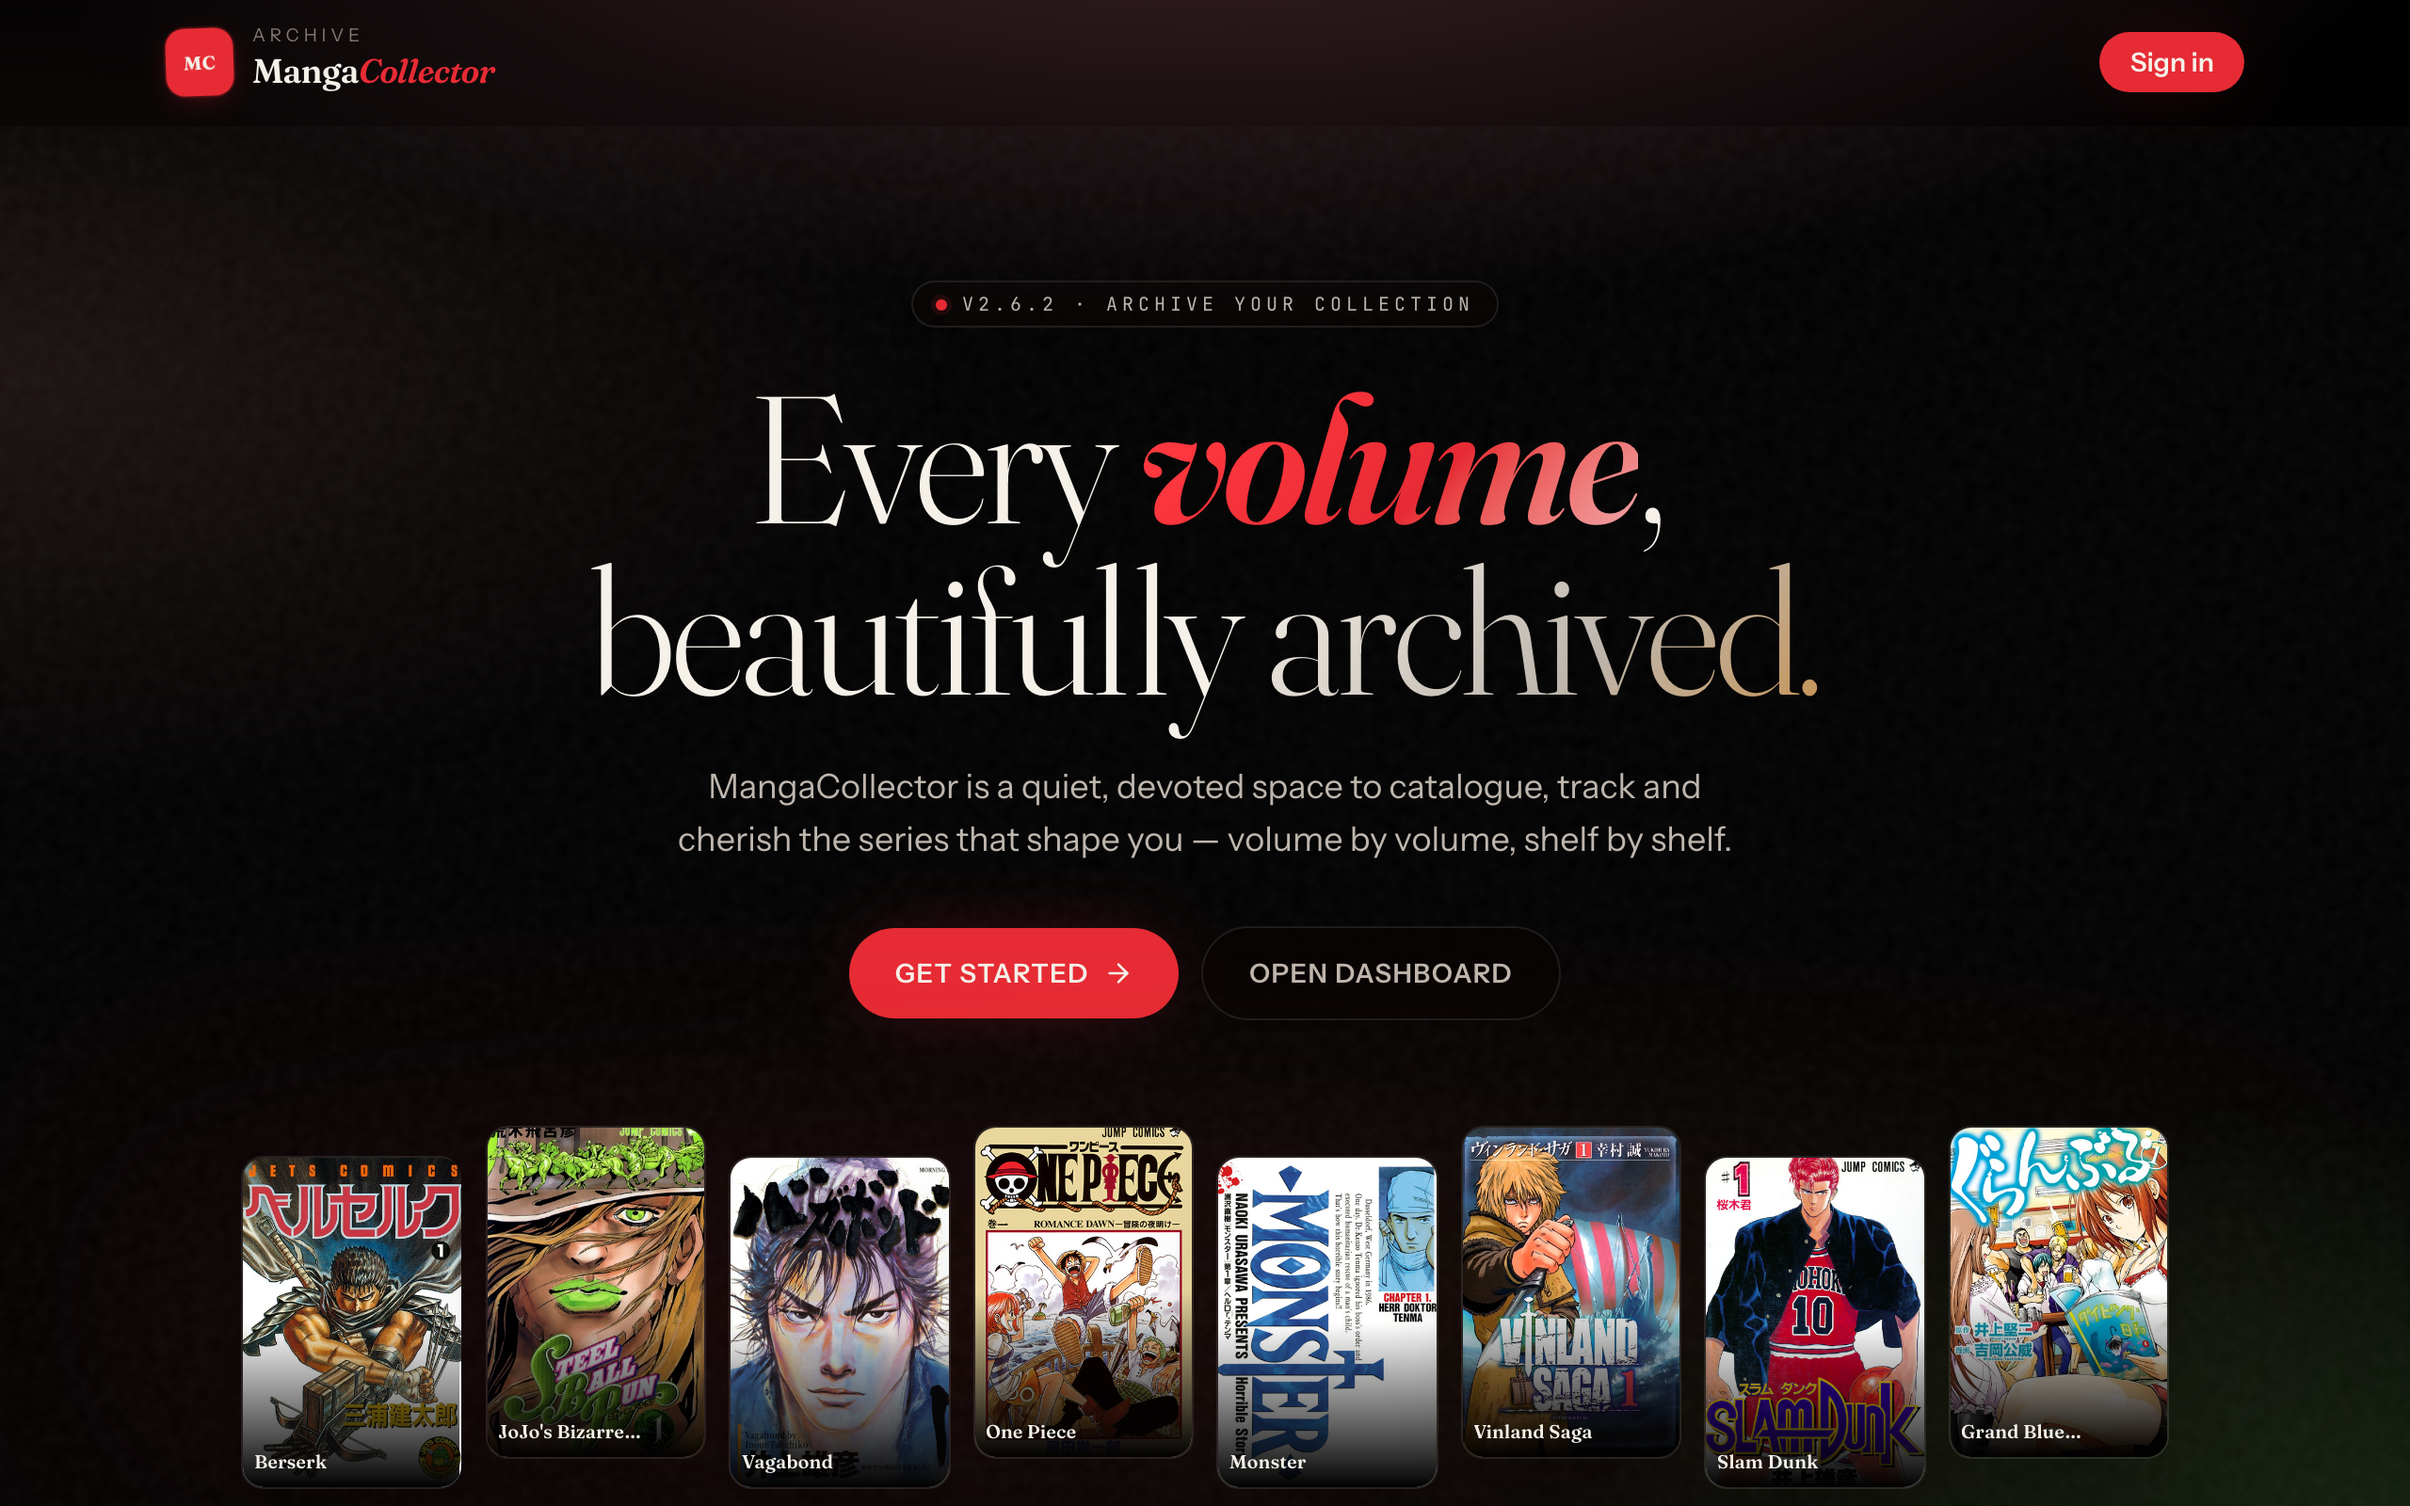
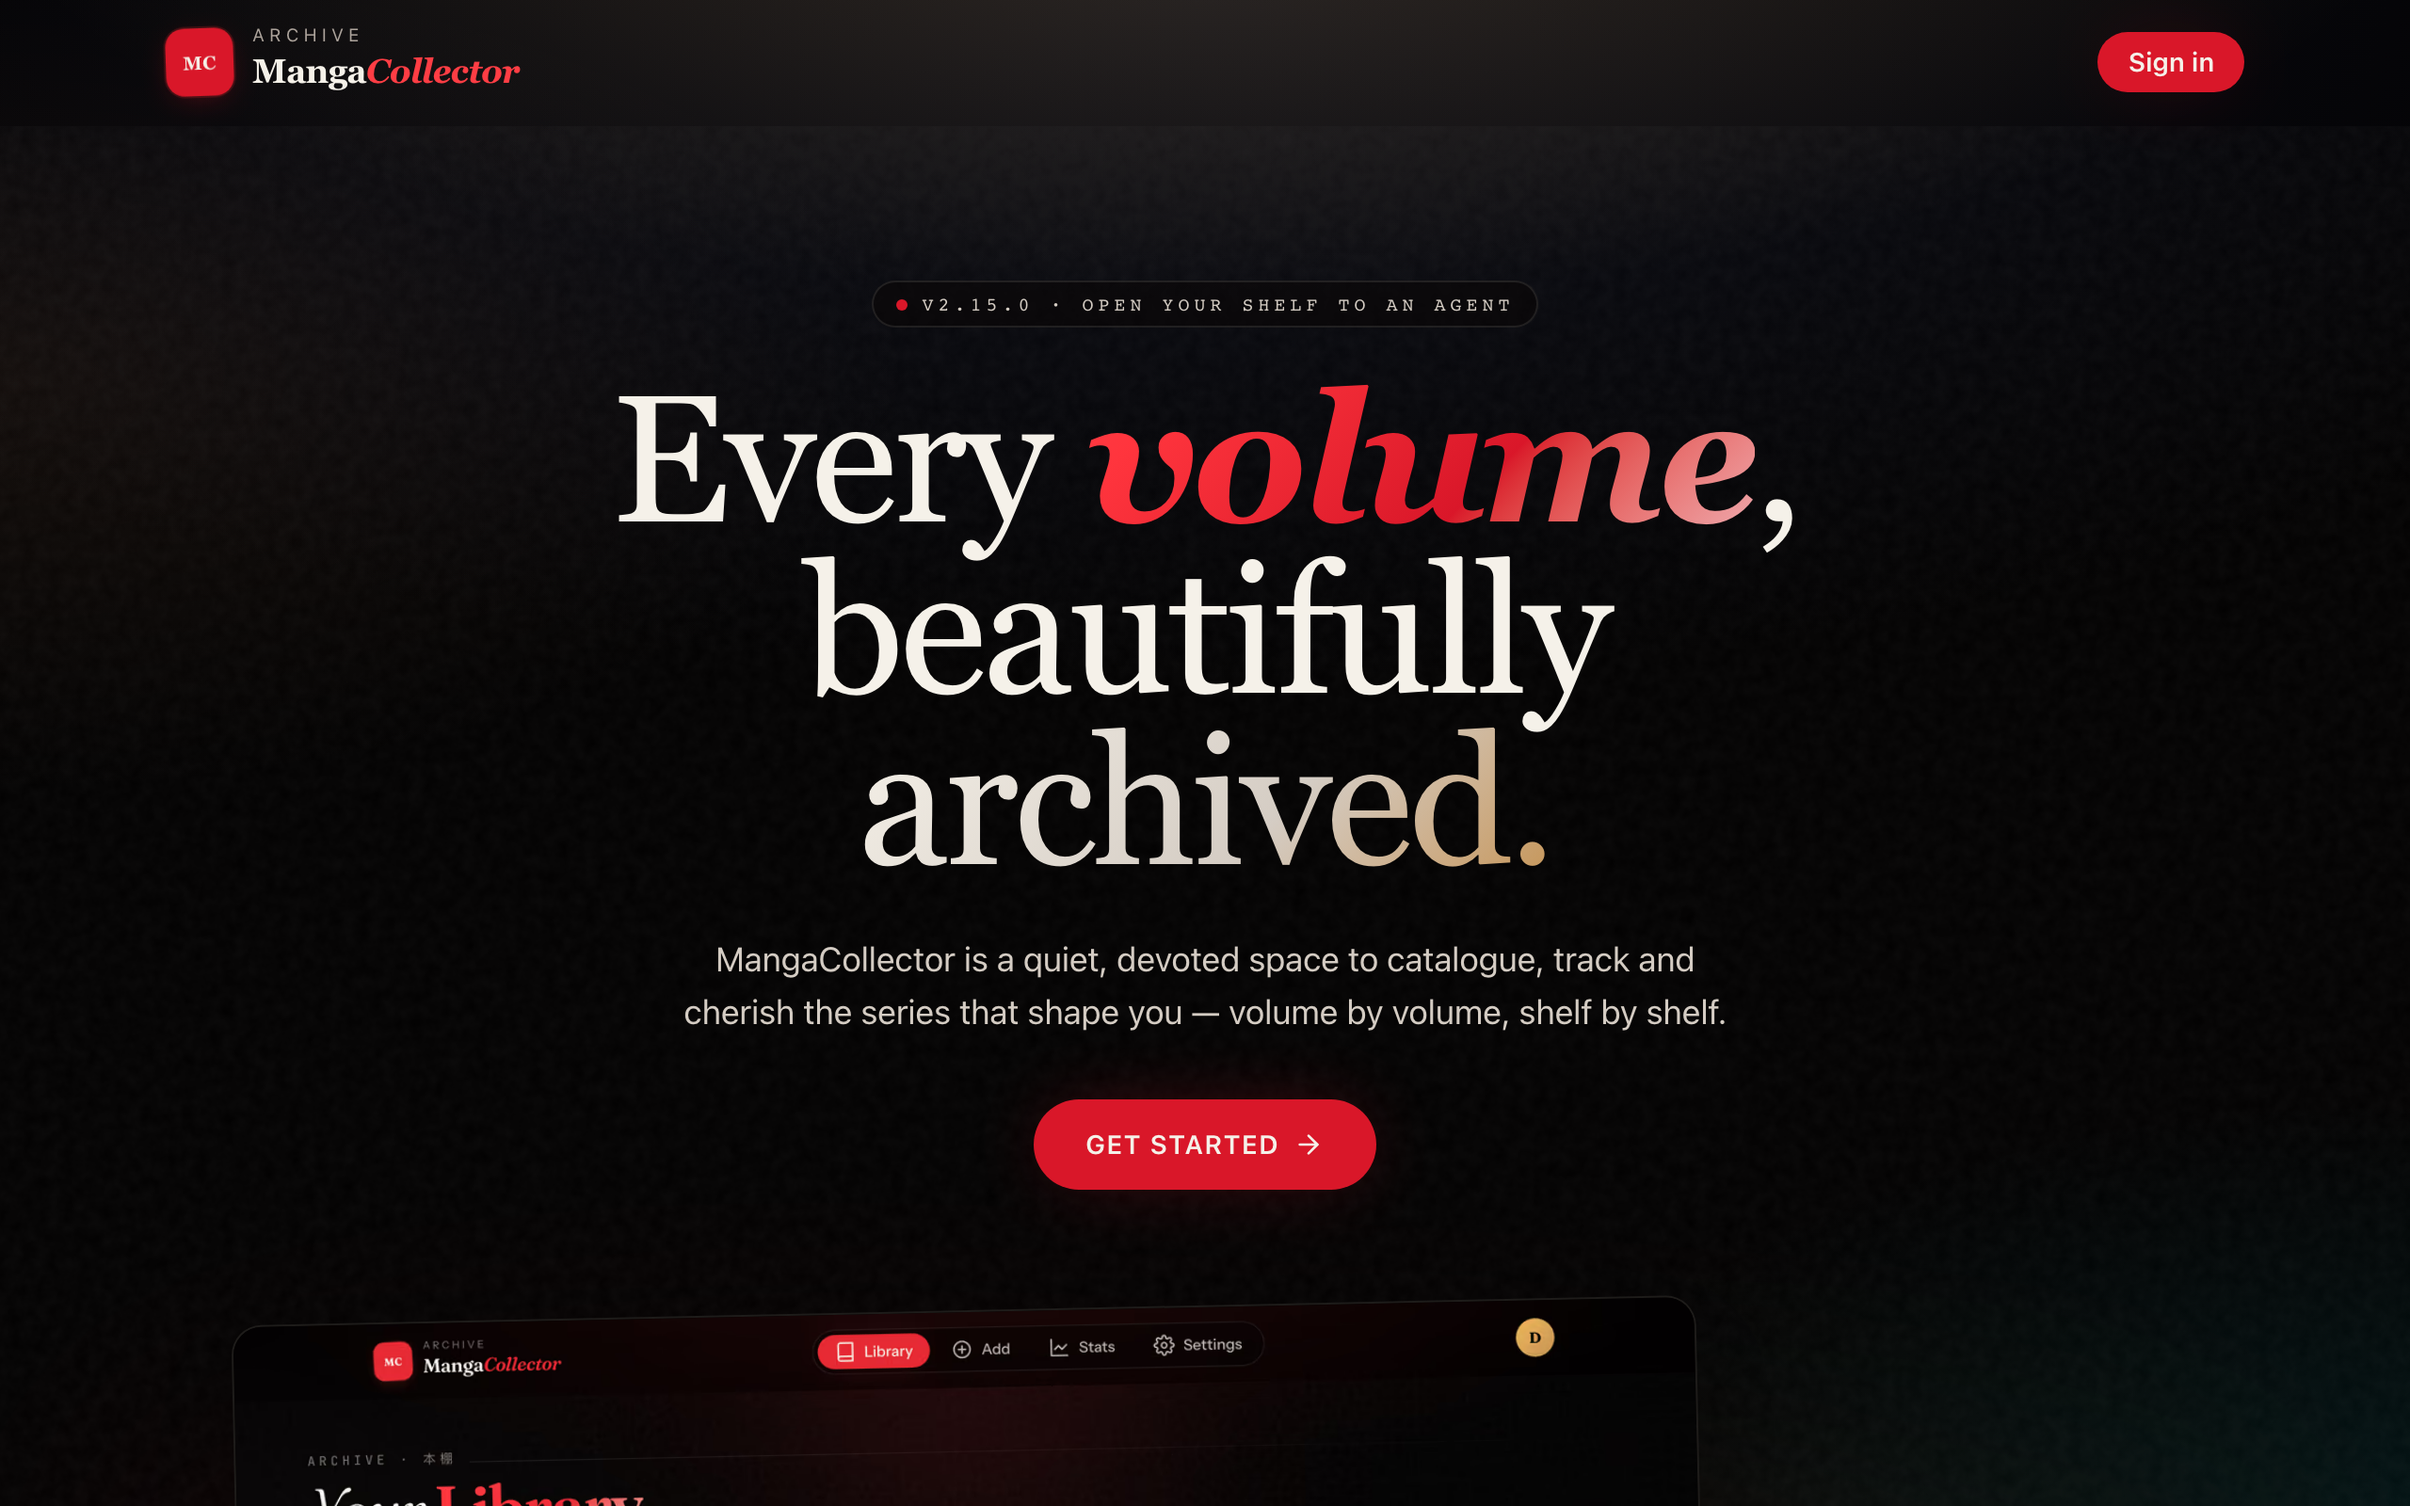
docs(readme): the landing row and its screenshot follow the honest landing
The README still described the hero as "top manga from MAL" and showed
the old page. Row reworded; screenshot regenerated at the same 2560×1600
from the production build, signed out.

diff --git a/README.md b/README.md
@@ -12,7 +12,7 @@ It works **offline-first**, is **installable on iOS / Android / Desktop**, and s
 
 | | |
 |---|---|
-| **Landing page** — about, hero, top manga from MAL | ![Landing](docs/screenshots/landing.png) |
+| **Landing page** — the product itself: real screenshots for a visitor, your own shelf once signed in | ![Landing](docs/screenshots/landing.png) |
 | **Sign-in** — Google or generic OpenID Connect | ![Auth](docs/screenshots/auth.png) |
 | **Library dashboard** — your shelf at a glance | ![Library](docs/screenshots/dashboard.png) |
 | **Series page** — bulk volume editing, cover swap, MAL refresh | ![Series](docs/screenshots/mangaEditor.png) |
